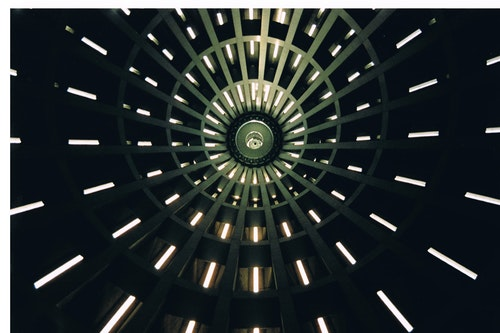
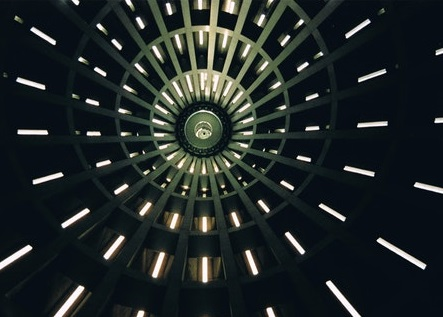
Fix neons.jpg borders, languages categories, update langages, update hobbies order

diff --git a/index.html b/index.html
@@ -361,13 +361,6 @@
 			<div class="row">
 			
 				<div class="col-md-6 col-sm-6 fh5co-service to-animate">
-					<i class="icon to-animate-2 icon-compass"></i>
-					<h3>Mountain hiking &amp; walks</h3>
-					<p>The fresh air and sun are necessary to my well-being; moreover, I&rsquo;ve been raised in a mountain hikers family.</p>
-				</div>
-				<div class="clearfix visible-sm-block"></div>
-			
-				<div class="col-md-6 col-sm-6 fh5co-service to-animate">
 					<i class="icon to-animate-2 icon-people"></i>
 					<h3>Board games</h3>
 					<p>With friends, we often play board and card games. Some of my favorite games include Dominion, Time&rsquo;s Up and Cards against Humanity.</p>
@@ -384,7 +377,14 @@
 				<div class="col-md-6 col-sm-6 fh5co-service to-animate">
 					<i class="icon to-animate-2 icon-map"></i>
 					<h3>Travelling</h3>
-					<p>I love to discover new regions, countries, cultures, languages and food. That&rsquo;s why I visited several cities in France, Italy, Spain, Switzerland, the UK and the USA. I am also planning on moving to a foreign country, such as the Netherlands, Singapore, Australia, the USA &hellip;</p>
+					<p>I love discovering new regions, countries, cultures, languages and food. That&rsquo;s why I visited several cities in France, Italy, Spain, Switzerland, the UK and the USA. I am also planning on moving to a foreign country, such as the Netherlands, Singapore, Australia, the USA &hellip;</p>
+				</div>
+				<div class="clearfix visible-sm-block"></div>
+			
+				<div class="col-md-6 col-sm-6 fh5co-service to-animate">
+					<i class="icon to-animate-2 icon-compass"></i>
+					<h3>Mountain hiking &amp; walks</h3>
+					<p>The fresh air and sun are necessary to my well-being. I&rsquo;ve been mountain hiking with my family since I was young.</p>
 				</div>
 				<div class="clearfix visible-sm-block"></div>
 			
@@ -482,7 +482,7 @@
 			
 				<div class="col-md-6 col-sm-6 fh5co-service to-animate">
 					<i class="icon to-animate-2 icon-fire"></i>
-					<h3>Loved</h3>
+					<h3>Best at</h3>
 					<p>French, English, Go, JavaScript (ES6+, TypeScript), Solidity, .Net Core</p>
 				</div>
 				<div class="clearfix visible-sm-block"></div>
@@ -490,21 +490,21 @@
 				<div class="col-md-6 col-sm-6 fh5co-service to-animate">
 					<i class="icon to-animate-2 icon-globe-alt"></i>
 					<h3>Also known</h3>
-					<p>JavaScript (older versions), .Net, Java, HTML, CSS, Spanish</p>
+					<p>JavaScript (older versions), .Net Framework, Java, HTML, CSS, Spanish</p>
 				</div>
 				<div class="clearfix visible-sm-block"></div>
 			
 				<div class="col-md-6 col-sm-6 fh5co-service to-animate">
 					<i class="icon to-animate-2 icon-direction"></i>
 					<h3>Learning</h3>
-					<p>Russian, Italian, Esperanto, Rust</p>
+					<p>Russian, German, Rust</p>
 				</div>
 				<div class="clearfix visible-sm-block"></div>
 			
 				<div class="col-md-6 col-sm-6 fh5co-service to-animate">
 					<i class="icon to-animate-2 icon-ghost"></i>
-					<h3>Wanted</h3>
-					<p>Mandarin, Portuguese, German, Interlingua, Python, Reason ML</p>
+					<h3>Want to learn</h3>
+					<p>Mandarin, Portuguese, Italian, Interlingua or Esperanto, Python, Reason ML</p>
 				</div>
 				<div class="clearfix visible-sm-block"></div>
 			
